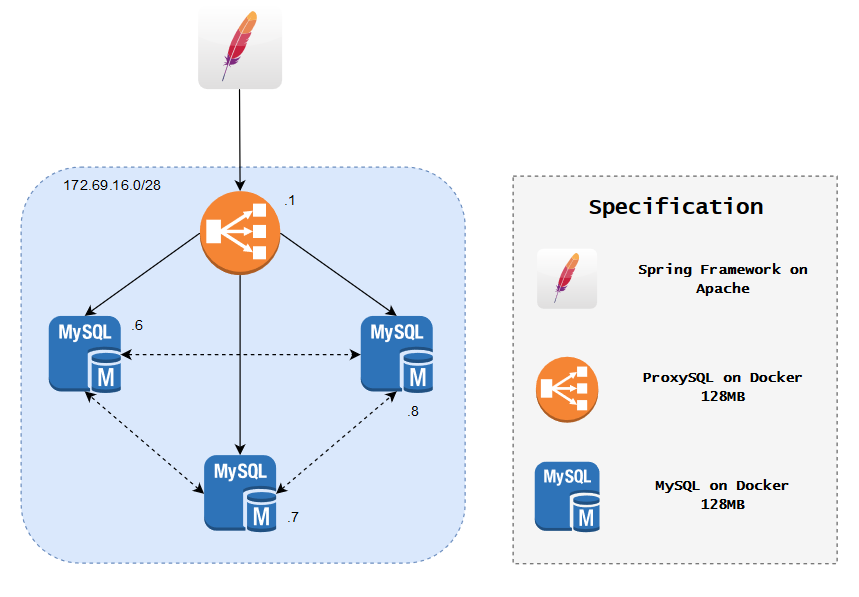
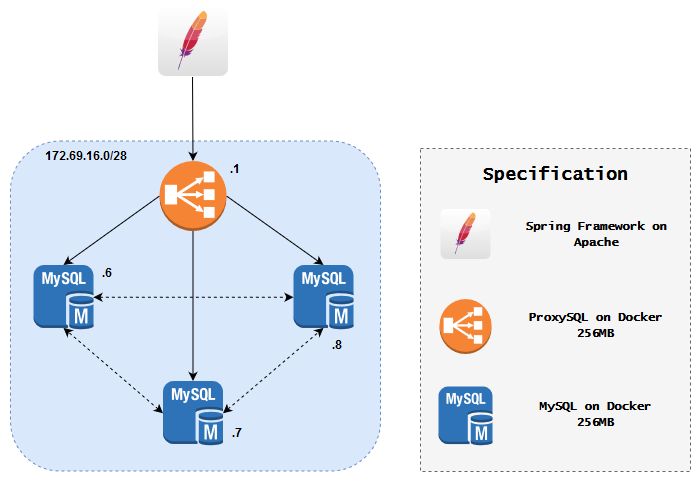
resize

diff --git a/ets/README.md b/ets/README.md
@@ -1,3 +1,7 @@
-# BDT 2019 - ETS
-## Rancang Bangun Infrastruktur dan Spesifikasi
-![Infrastructure Detail](img/architecture.png)
+# BDT 2019 - ETS  
+## Rancang Bangun Infrastruktur dan Spesifikasi  
+![Infrastructure Detail](img/architecture.png)  
+Change log:  
+- 00:44 09/10/2019:
+  - Resize ProxySQL and MySQL memory limit to **256MB**  
+## Implementasi
